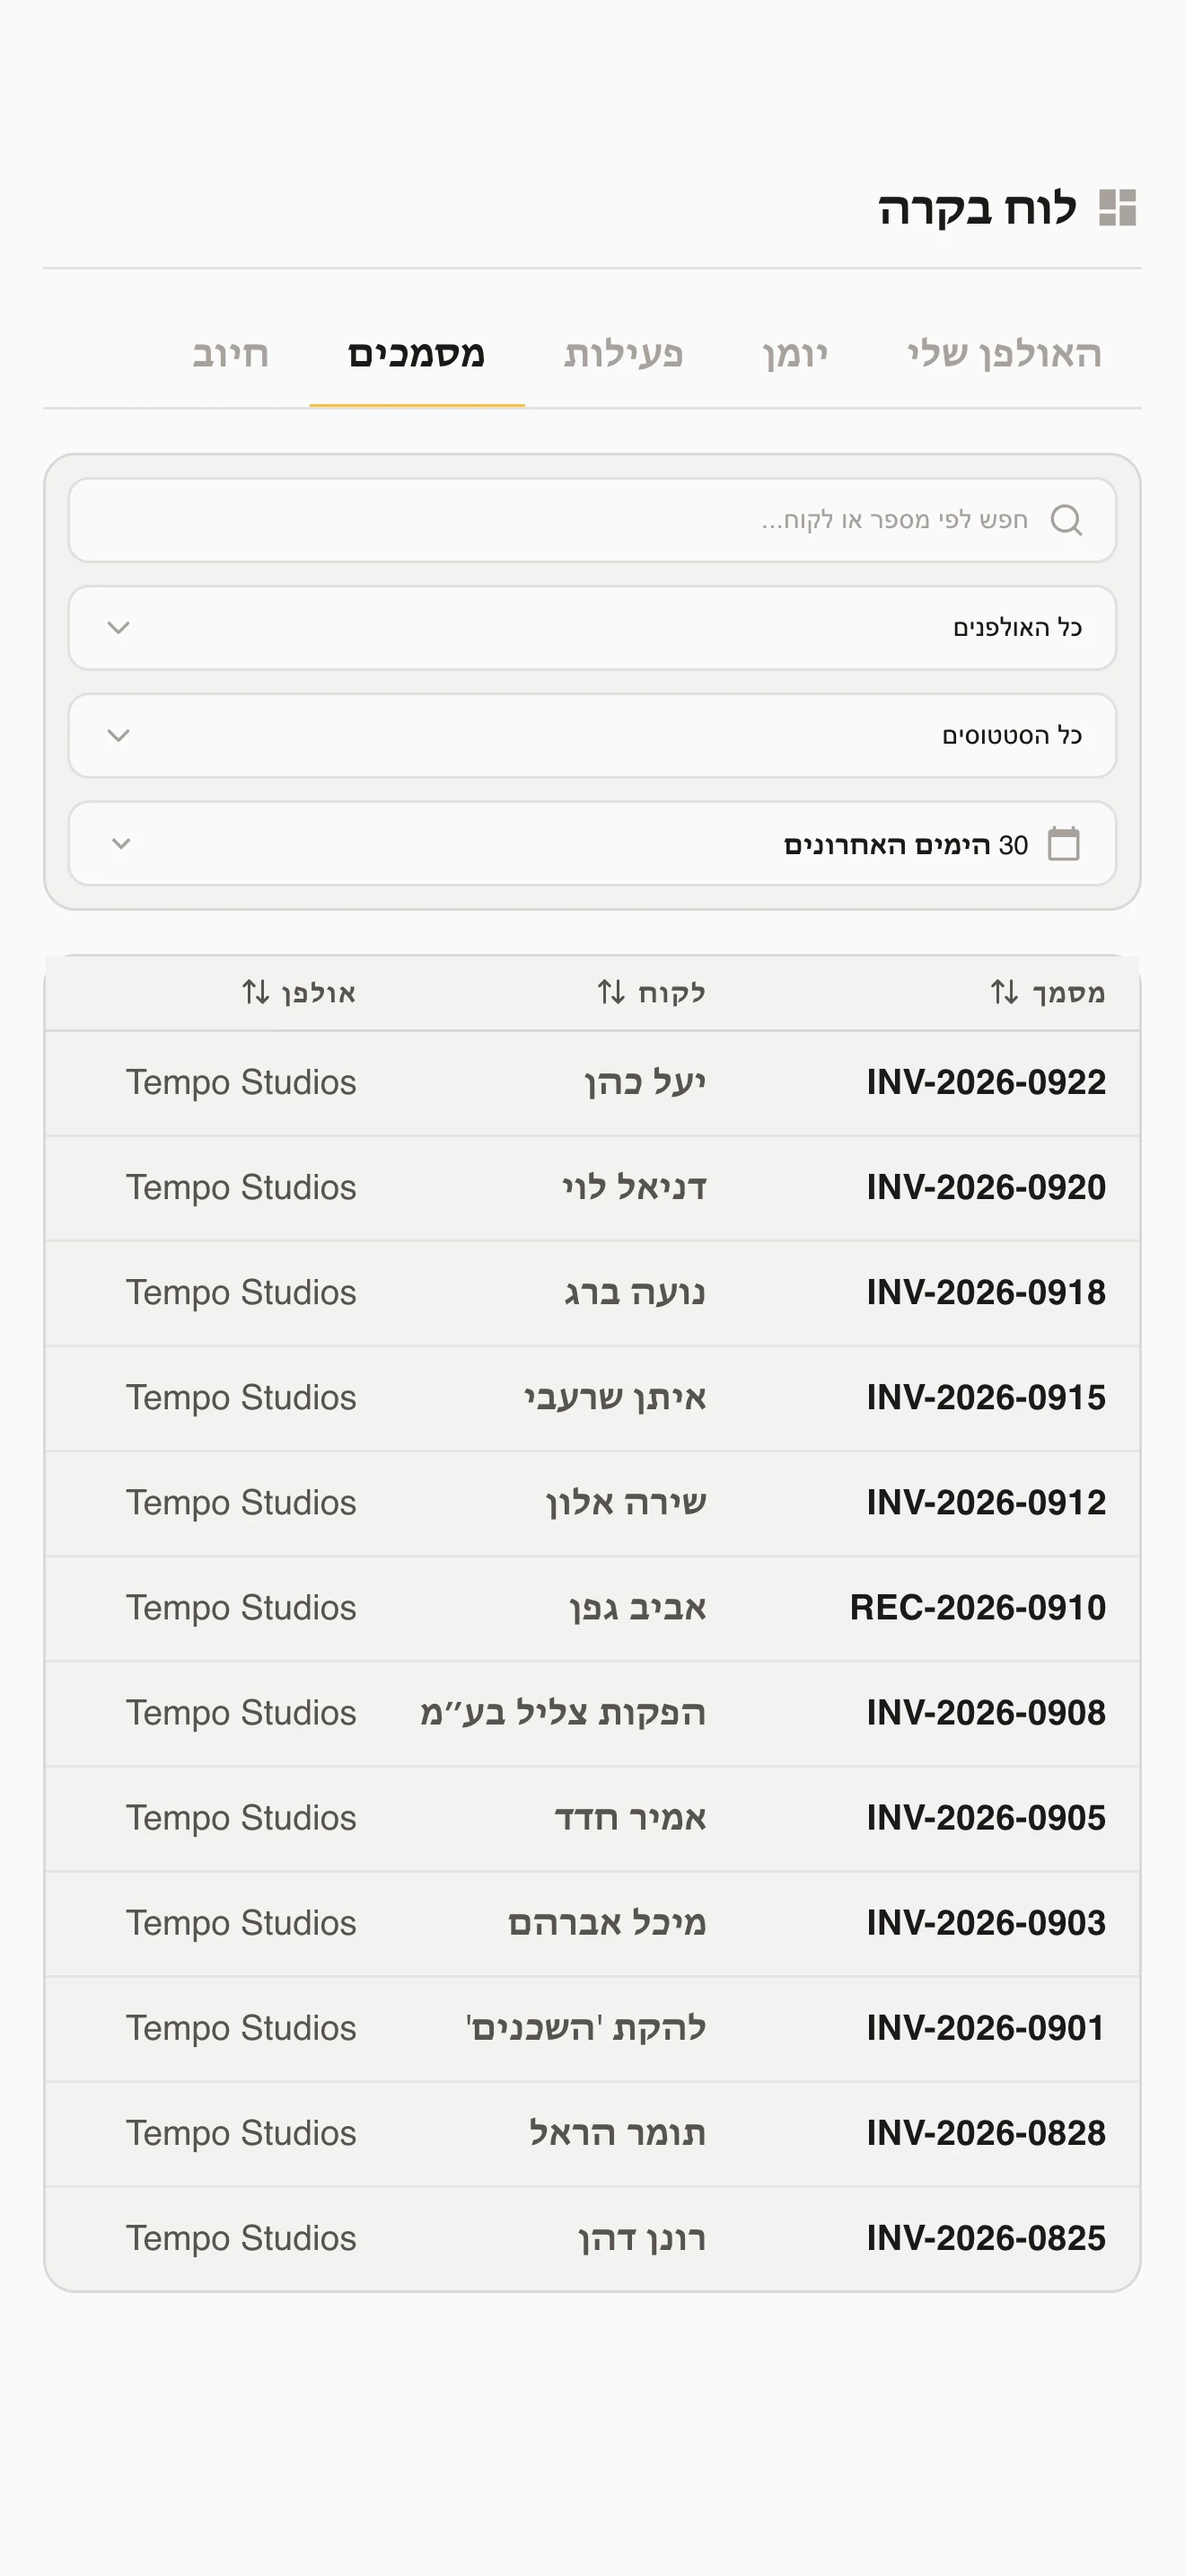
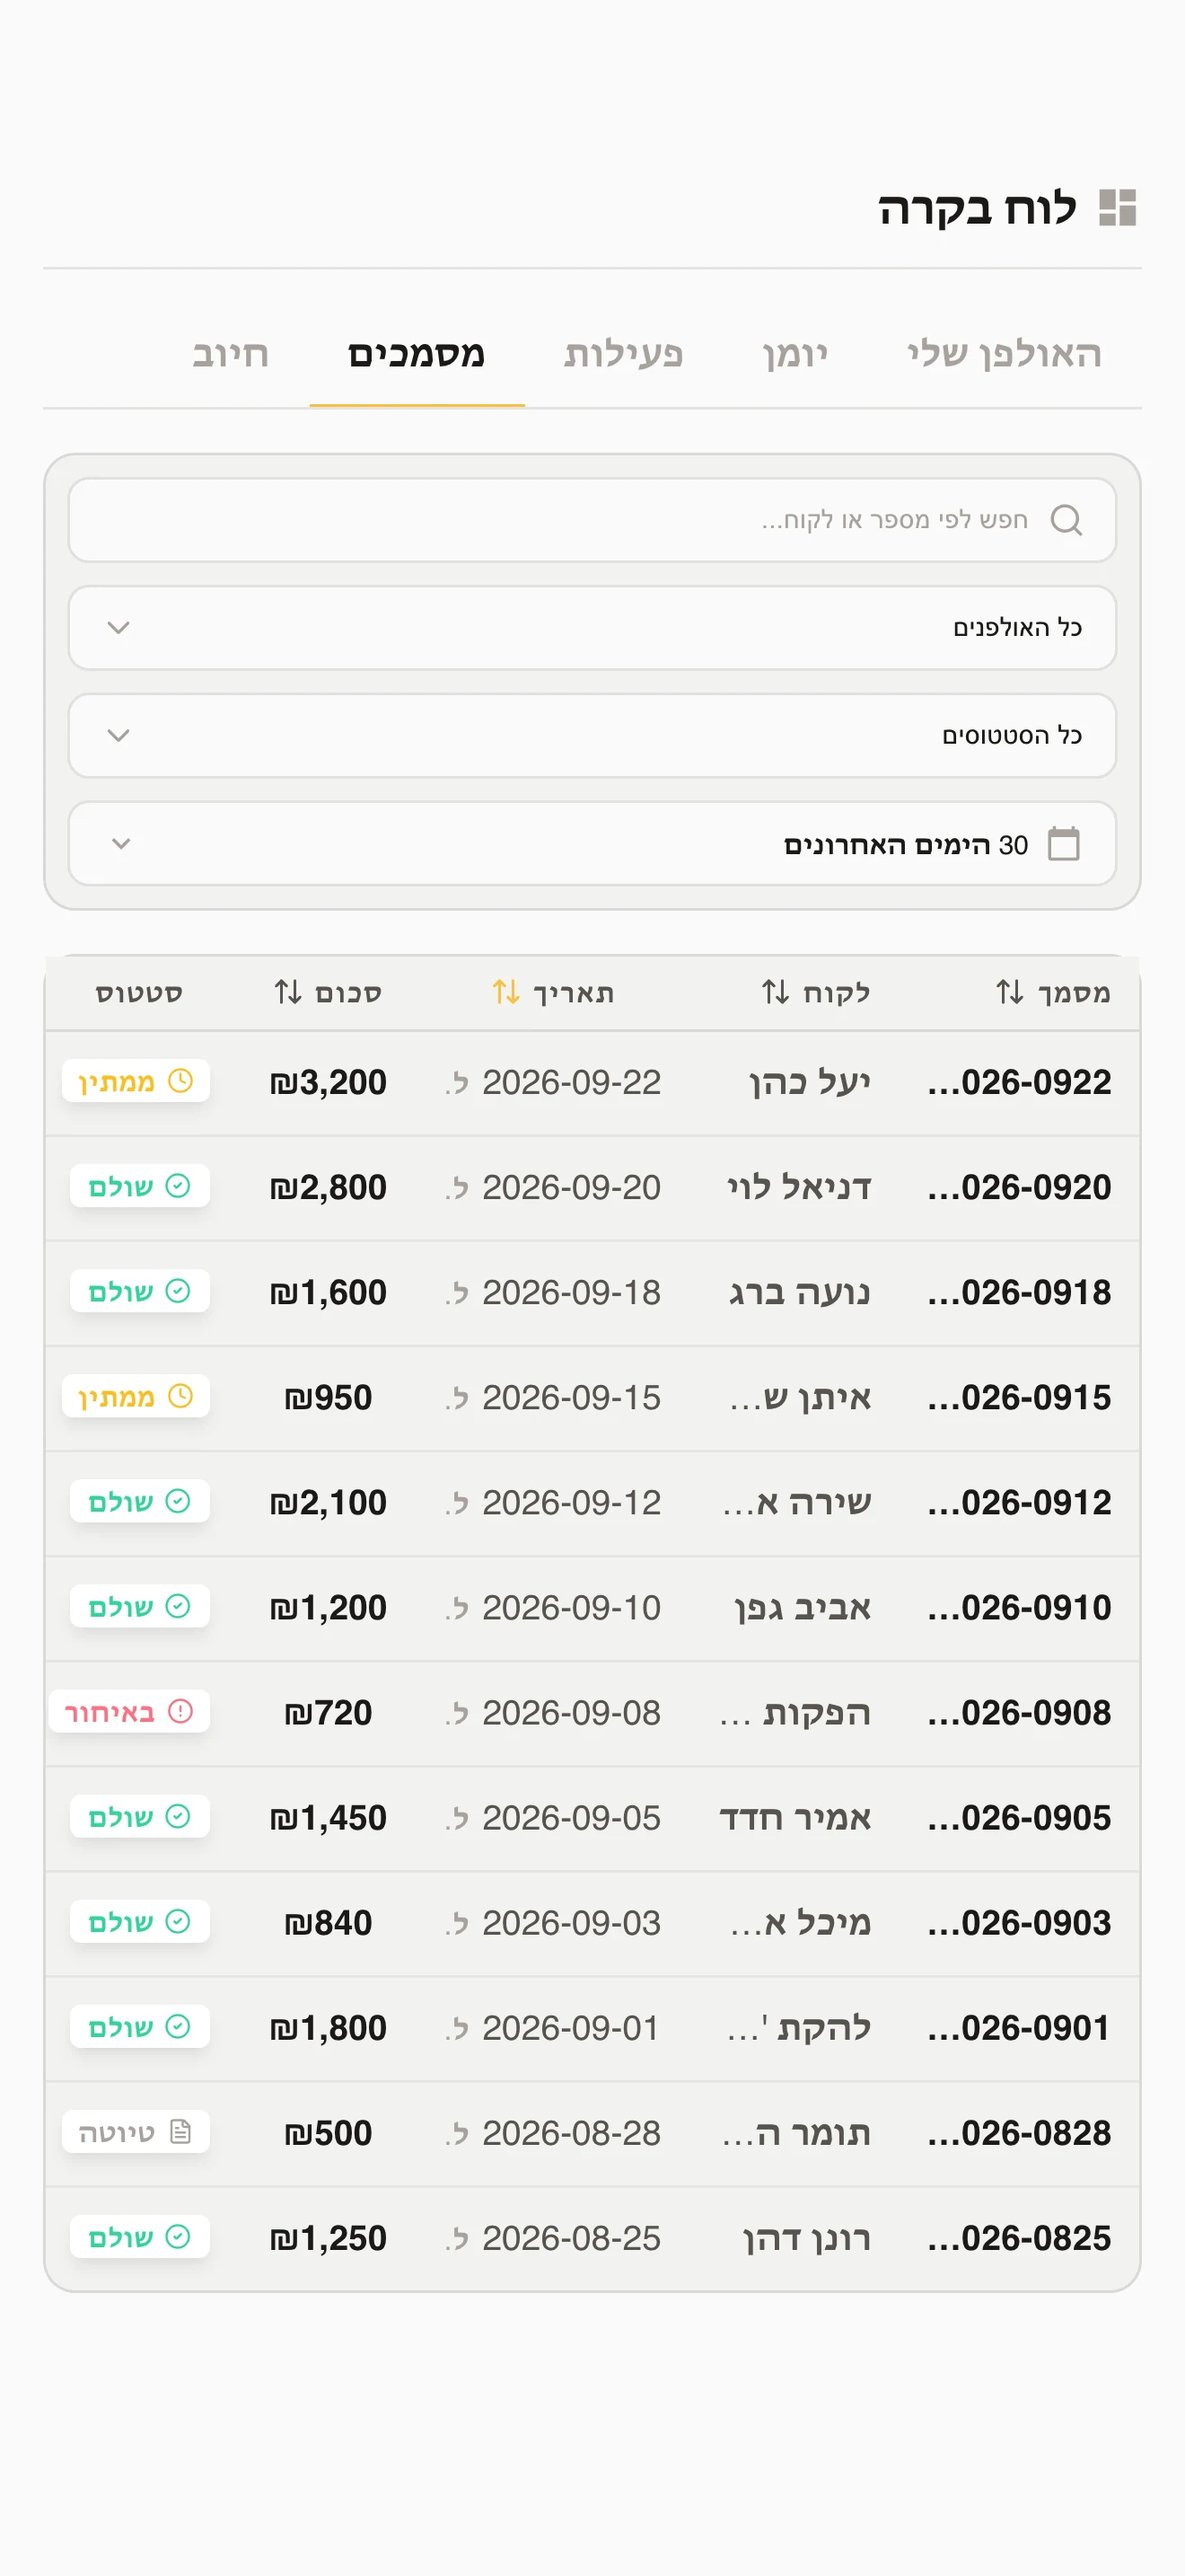
Keep invoice status in the first viewport on mobile.
Reorder columns and size the table so Studio scrolls off-screen instead of crowding Status.

diff --git a/src/features/entities/merchant-documents/styles/_merchant-documents.scss b/src/features/entities/merchant-documents/styles/_merchant-documents.scss
@@ -427,15 +427,16 @@
   }
 }
 
-// Documents Table — dense vertical rows, comfortable horizontal spacing
+// Documents Table — dense vertical rows; core columns stay readable, studio scrolls.
 .documents-table {
   width: 100%;
-  min-width: 58rem; // Prefer horizontal scroll over crushed columns on narrow viewports
+  // Overflow just past Status so Studio stays off the first viewport on mobile,
+  // while desktop still shows the full row. Mild ellipsis on text cols is OK.
+  min-width: calc(100% + 9.5rem);
   text-align: start;
   border-collapse: collapse;
   table-layout: fixed;
 
-  // Same horizontal rhythm as the prior 6-col table; studio is an extra scrollable column.
   colgroup {
     col:nth-child(1) {
       width: 16%;
@@ -444,24 +445,24 @@
       width: 14%;
     } // Customer
     col:nth-child(3) {
-      width: 14%;
-    } // Studio
-    col:nth-child(4) {
       width: 18%;
     } // Date
-    col:nth-child(5) {
+    col:nth-child(4) {
       width: 12%;
     } // Amount
+    col:nth-child(5) {
+      width: 13%;
+    } // Status — ends ~73% (at the first-viewport edge on mobile)
     col:nth-child(6) {
-      width: 14%;
-    } // Status
+      width: 15%;
+    } // Studio (overflow)
     col:nth-child(7) {
       width: 12%;
     } // Actions
   }
 
   &__th {
-    padding: 0.375rem 0.75rem;
+    padding: 0.375rem 0.625rem;
     background: var(--bg-secondary);
     color: var(--text-secondary);
     font-size: 0.625rem;
@@ -524,11 +525,13 @@
   }
 
   &__td {
-    padding: 0.375rem 0.75rem;
+    padding: 0.375rem 0.625rem;
     vertical-align: middle;
     font-size: 0.8125rem;
     line-height: 1.25;
     white-space: nowrap;
+    overflow: hidden;
+    text-overflow: ellipsis;
 
     &--date {
       text-align: center;
@@ -537,6 +540,7 @@
     &--amount,
     &--status {
       text-align: center;
+      overflow: visible;
 
       > * {
         margin-inline: auto;
@@ -553,6 +557,8 @@
     padding: 1.25rem 1rem;
     color: var(--text-muted);
     white-space: normal;
+    overflow: visible;
+    text-overflow: unset;
 
     > div {
       display: flex;
@@ -573,11 +579,14 @@
   }
 
   &__doc-number {
+    display: block;
     color: var(--text-primary);
     font-weight: 600;
     font-size: 0.8125rem;
     font-variant-numeric: tabular-nums;
     letter-spacing: 0.01em;
+    overflow: hidden;
+    text-overflow: ellipsis;
   }
 
   &__doc-studio {
@@ -585,6 +594,8 @@
     color: var(--text-secondary);
     font-size: 0.8125rem;
     font-weight: 450;
+    overflow: hidden;
+    text-overflow: ellipsis;
   }
 
   &__customer {
@@ -592,6 +603,8 @@
     color: var(--text-secondary);
     font-size: 0.8125rem;
     font-weight: 450;
+    overflow: hidden;
+    text-overflow: ellipsis;
   }
 
   &__date {
@@ -599,17 +612,21 @@
     align-items: baseline;
     justify-content: center;
     flex-wrap: nowrap;
-    gap: 0.35rem;
+    gap: 0.3rem;
+    max-width: 100%;
     color: var(--text-secondary);
     font-size: 0.8125rem;
     font-variant-numeric: tabular-nums;
     white-space: nowrap;
+    overflow: hidden;
   }
 
   &__due-date {
     color: var(--text-muted);
     font-size: 0.6875rem;
     font-weight: 450;
+    overflow: hidden;
+    text-overflow: ellipsis;
   }
 
   &__amount {
@@ -666,6 +683,8 @@
     color: var(--text-muted);
     font-size: 0.8125rem;
     white-space: normal;
+    overflow: visible;
+    text-overflow: unset;
   }
 
   &__empty-inner {

diff --git a/src/features/entities/merchant-documents/pages/MerchantDocumentsPage.tsx b/src/features/entities/merchant-documents/pages/MerchantDocumentsPage.tsx
@@ -79,13 +79,14 @@ const DocumentRow = React.memo(
       className="documents-table__row"
     >
       <td className="documents-table__td">
-        <span className="documents-table__doc-number">{doc.number}</span>
+        <span className="documents-table__doc-number" title={doc.number}>
+          {doc.number}
+        </span>
       </td>
       <td className="documents-table__td">
-        <span className="documents-table__customer">{doc.customerName}</span>
-      </td>
-      <td className="documents-table__td">
-        <span className="documents-table__doc-studio">{doc.studioName}</span>
+        <span className="documents-table__customer" title={doc.customerName}>
+          {doc.customerName}
+        </span>
       </td>
       <td className="documents-table__td documents-table__td--date">
         <span className="documents-table__date" title={`${t('table.dueDate')} ${doc.dueDate}`}>
@@ -100,6 +101,11 @@ const DocumentRow = React.memo(
       </td>
       <td className="documents-table__td documents-table__td--status">
         <StatusBadge status={doc.status} t={t} />
+      </td>
+      <td className="documents-table__td">
+        <span className="documents-table__doc-studio" title={doc.studioName}>
+          {doc.studioName}
+        </span>
       </td>
       <td className="documents-table__td documents-table__td--actions">
         <div className="documents-table__actions">
@@ -612,12 +618,6 @@ const MerchantDocumentsPage: React.FC = () => {
                     <ArrowUpDown size={12} className={sortBy === 'customerName' ? 'active' : ''} />
                   </div>
                 </th>
-                <th className="documents-table__th" onClick={() => toggleSort('studioName')}>
-                  <div className="documents-table__th-content">
-                    {t('table.studio')}
-                    <ArrowUpDown size={12} className={sortBy === 'studioName' ? 'active' : ''} />
-                  </div>
-                </th>
                 <th className="documents-table__th documents-table__th--date" onClick={() => toggleSort('date')}>
                   <div className="documents-table__th-content">
                     {t('table.date')}
@@ -631,6 +631,12 @@ const MerchantDocumentsPage: React.FC = () => {
                   </div>
                 </th>
                 <th className="documents-table__th documents-table__th--status">{t('table.status')}</th>
+                <th className="documents-table__th" onClick={() => toggleSort('studioName')}>
+                  <div className="documents-table__th-content">
+                    {t('table.studio')}
+                    <ArrowUpDown size={12} className={sortBy === 'studioName' ? 'active' : ''} />
+                  </div>
+                </th>
                 <th className="documents-table__th documents-table__th--actions">{t('table.actions')}</th>
               </tr>
             </thead>
